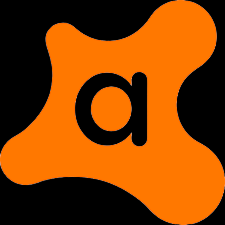
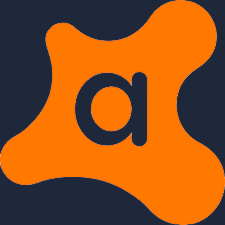
Modified the appearance

diff --git a/index.css b/index.css
@@ -3,27 +3,29 @@
     padding: 0;
 }
 body{
-    background-color: #e7d8d8;
+    background-color: rgb(47, 53, 76);
     color: blanchedalmond;
     display: grid;
     grid-template-columns: 50% 50%;
 }
 
 .LeftMain{
-    background-color: black;
+    background-color: rgb(47, 53, 76);
 }
 
 .logo{
     height: 250px;
     width: 250px;
-    background: url(./Assets/Avast-removebg-preview.png);
+    background: url(./Assets/avast\ logo.png);
     background-position: center;
-    background-size: 50%;
+    background-size: 100%;
     background-repeat: no-repeat;
+    margin-left: 20%;
+    margin-top: 15%;
 }
 
 .RightMain{
-    background-color: black;
+    background-color: rgb(47, 53, 76);
     line-height: 3em;
 }
 span{
@@ -36,9 +38,26 @@ button{
     height: 5em;
     border: none;
     box-shadow:2px 2px rgb(77, 2, 100);
+    position: relative;
+    top: 100%;
 }
 
 h1{
     position: relative;
     left: 20%;
+    font-weight: bolder;
+}
+
+ul{
+    position: relative;
+    top: 30%;
+}
+
+li{
+    list-style-type: none;
+    
+}
+
+.avast{
+    position: relative;
 }

diff --git a/index.html b/index.html
@@ -9,7 +9,8 @@
 </head>
 <body>
     <div class="LeftMain">
-        <div class="logo"></div>
+            <div class="logo"></div>
+
             <h1>Avast <span>Free</span> <br> Antivirus</h1>
     </div>
 
